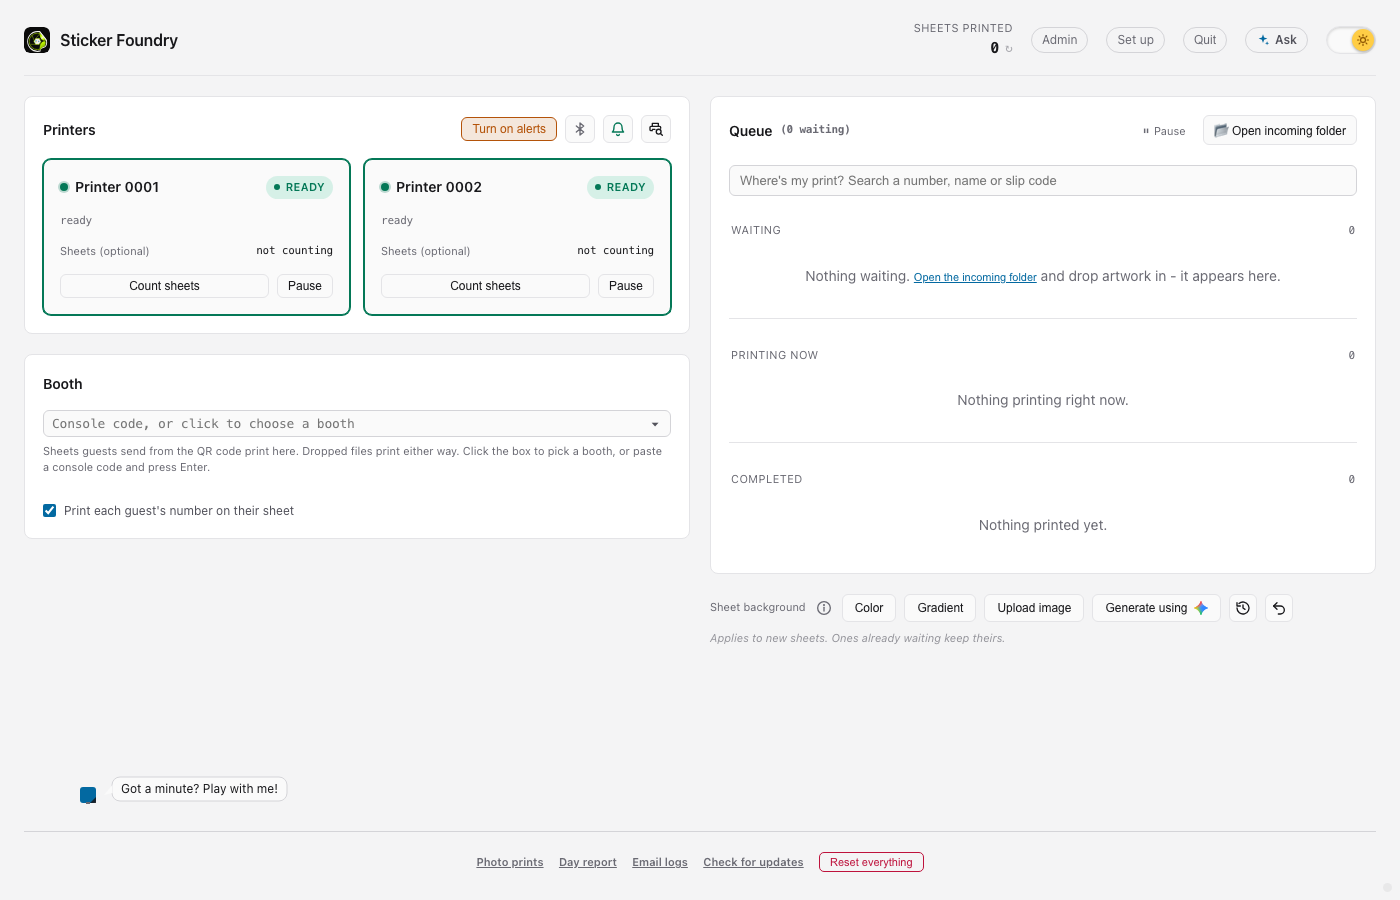
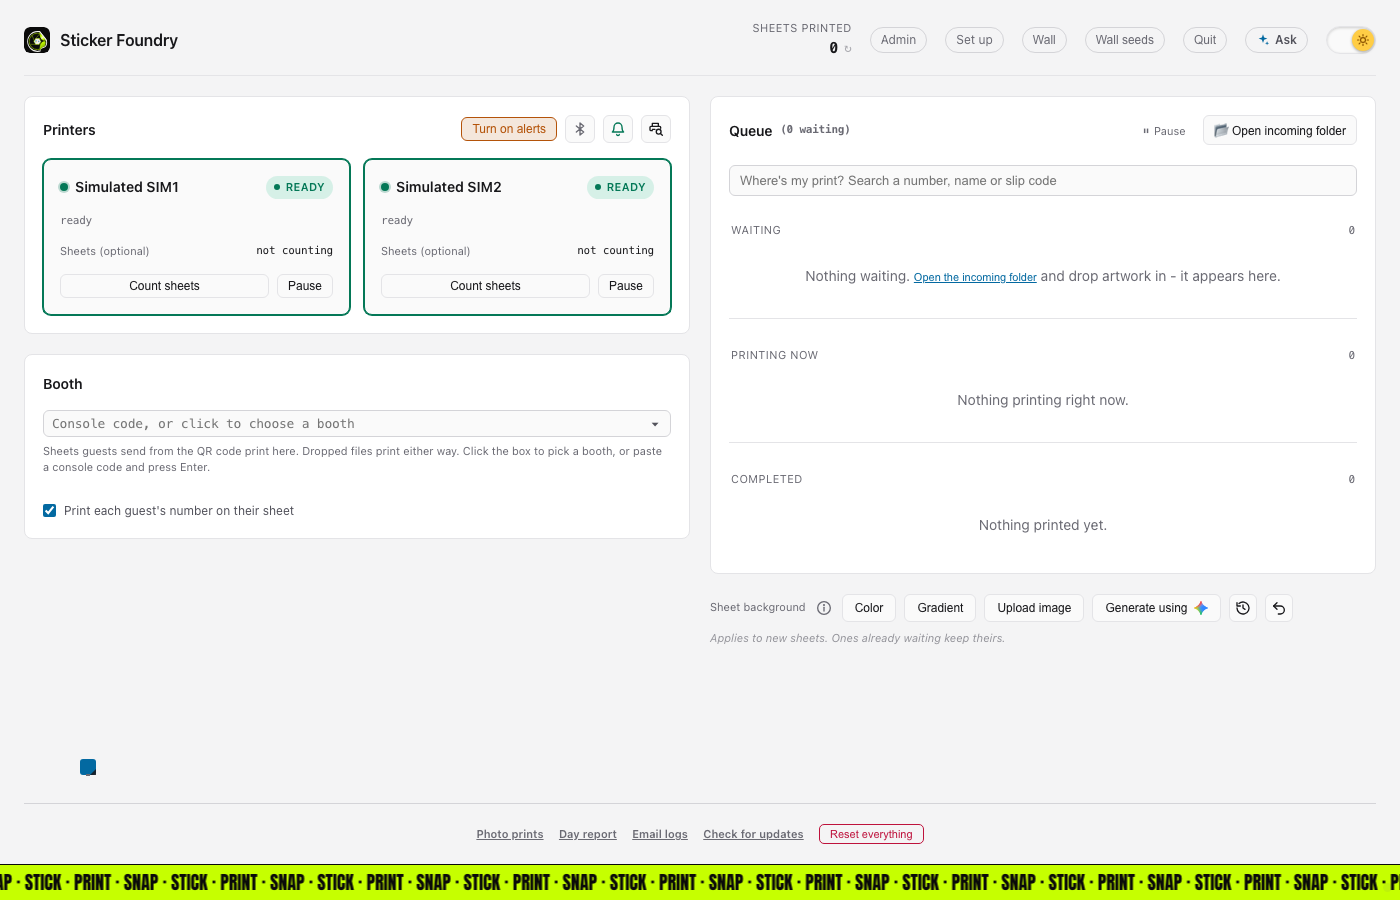
Download page for Sticker Foundry 4.1.3

diff --git a/GUIDE.md b/GUIDE.md
@@ -43,11 +43,11 @@ guests print from their phones.
 **3. First print.** Press **Open incoming folder** and drop in a PNG image. It joins the queue and
 prints. It uses one real sheet, so do this once.
 
-## The console in 8 bullets
+## The console in 9 bullets
 
 <img src="images/guide/console-tour.png" alt="The Sticker Foundry console: printer cards, booth, queue, sheet background, and Ask in the header" width="900">
 
-*The console. Header: Admin, Set up, Quit, Ask and the light/dark switch.*
+*The console. Header: Admin, Set up, Wall, Wall seeds, Quit, Ask and the light/dark switch.*
 
 - **Printers:** one card each. **Ready** is good.
 - **Queue:** waiting, printing now and completed sheets.
@@ -56,7 +56,28 @@ prints. It uses one real sheet, so do this once.
 - **Where's my print?** finds one guest's sheet.
 - **Sheet background:** the colour or picture behind the stickers.
 - **Ask:** the helper, top right.
-- **Footer:** pinned to the bottom with a just-for-fun game above it. Click the sticker to play.
+- **Wall** and **Wall seeds:** the sticker wall for a screen at the booth (see below).
+- **Footer:** pinned to the bottom with a just-for-fun game above it. Click the sticker to play. Along the very bottom, a green SNAP · STICK · PRINT strip scrolls by. It is only for show.
+
+## The sticker wall
+
+The wall is a page for a screen at the booth. It shows your sheets in six tilted columns that
+scroll for ever. Now and then a giant word appears behind them, and a "Made with" line with the
+Gemini, AI Studio and Antigravity logos comes in. The Sticker Foundry logo sits bottom right.
+
+<img src="images/guide/sticker-wall.jpg" alt="The sticker wall: columns of sticker sheets on a dark background, a giant green word behind them, the Made with line bottom left, the Sticker Foundry logo bottom right and a green SNAP STICK PRINT strip along the bottom" width="900">
+
+*The wall, with a giant word behind the sheets.*
+
+- Press **Wall** at the top of the console. It opens in the Mac's browser.
+- Drag that window to the booth screen and press **F** for full screen.
+- A device on the same Wi-Fi can open this Mac's address followed by `/wall`.
+- It shows this booth's own sheets first, then your own starter sheets, then ours, up to 30 sheets.
+  Real sheets replace the starter ones as they arrive.
+- To add your own starter sheets, press **Wall seeds** and drop PNG or WebP files with a
+  transparent background into the folder. A flat picture, such as a JPEG, is skipped, and the
+  button tells you which files.
+- A sheet with no transparent background still prints. It just does not show on the wall.
 
 ## Ask the helper
 

diff --git a/README.md b/README.md
@@ -126,7 +126,7 @@ booth, only images dropped into the incoming folder print.
 
 <img src="images/guide/console-tour.png" alt="The Sticker Foundry console with printers on the left and the queue on the right" width="700">
 
-*The console. The [guide](GUIDE.md#the-console-in-8-bullets) has the short tour.*
+*The console. The [guide](GUIDE.md#the-console-in-9-bullets) has the short tour.*
 
 **Set up**, at the top of the console, opens the guide again. The
 [short guide](GUIDE.md) has the essentials. Press **Ask** for anything else.
@@ -145,6 +145,18 @@ Keep the charger in and the lid open.
 
 A sheet the booth turns away (stickers too close to cut, say) doesn't use up the slip:
 the guest fixes it and sends again.
+
+## The sticker wall
+
+For a screen at the booth. Press **Wall** at the top of the console: it opens in your browser,
+showing this booth's sticker sheets in scrolling columns, with now and then a giant word behind
+them. Drag that window to the screen and press
+**F** for full screen. A device on the same Wi-Fi can open this Mac's address followed by `/wall`.
+
+The wall shows up to 30 sheets. Until the booth has made that many of its own, the rest is
+filled with starter sheets. To use your own, press **Wall seeds** and drop PNG or WebP files with a transparent
+background into the folder. Yours show first, ours fill what is left, and the booth's own
+sheets replace them as they arrive. A flat picture, such as a JPEG, is skipped, and the button names the files it skipped.
 
 ## When something goes wrong
 

diff --git a/GUIDE-FOR-AI.md b/GUIDE-FOR-AI.md
@@ -141,6 +141,22 @@ Press Open incoming folder and drop your artwork in. It joins the queue and prin
 
 Where: **Open incoming folder**
 
+### Show the sticker wall on a screen
+
+Asked as: sticker wall, wall, show the wall, second screen, big screen, tv
+
+Press Wall at the top. It opens the sticker wall in your browser: scrolling columns of this booth's sheets. Drag it to the screen at the booth and press F for full screen. A device on the same Wi-Fi can open this Mac's address followed by /wall.
+
+Where: **Wall**
+
+### Put your own starter sheets on the wall
+
+Asked as: wall seeds, seed sheets, starter sheets, own sheets on the wall, wall folder, add sheets to the wall
+
+Press Wall seeds and drop your own sheets in the folder: PNG or WebP with a transparent background. A flat picture such as a JPEG is skipped, and the button names it. Yours show first, the app's starter sheets fill the rest, and the booth's own sheets replace them as they arrive.
+
+Where: **Wall seeds**
+
 ### A guest asks where their print is
 
 Asked as: where is my print, wheres my print, where's my print, find a sheet, guest number, guest asks
